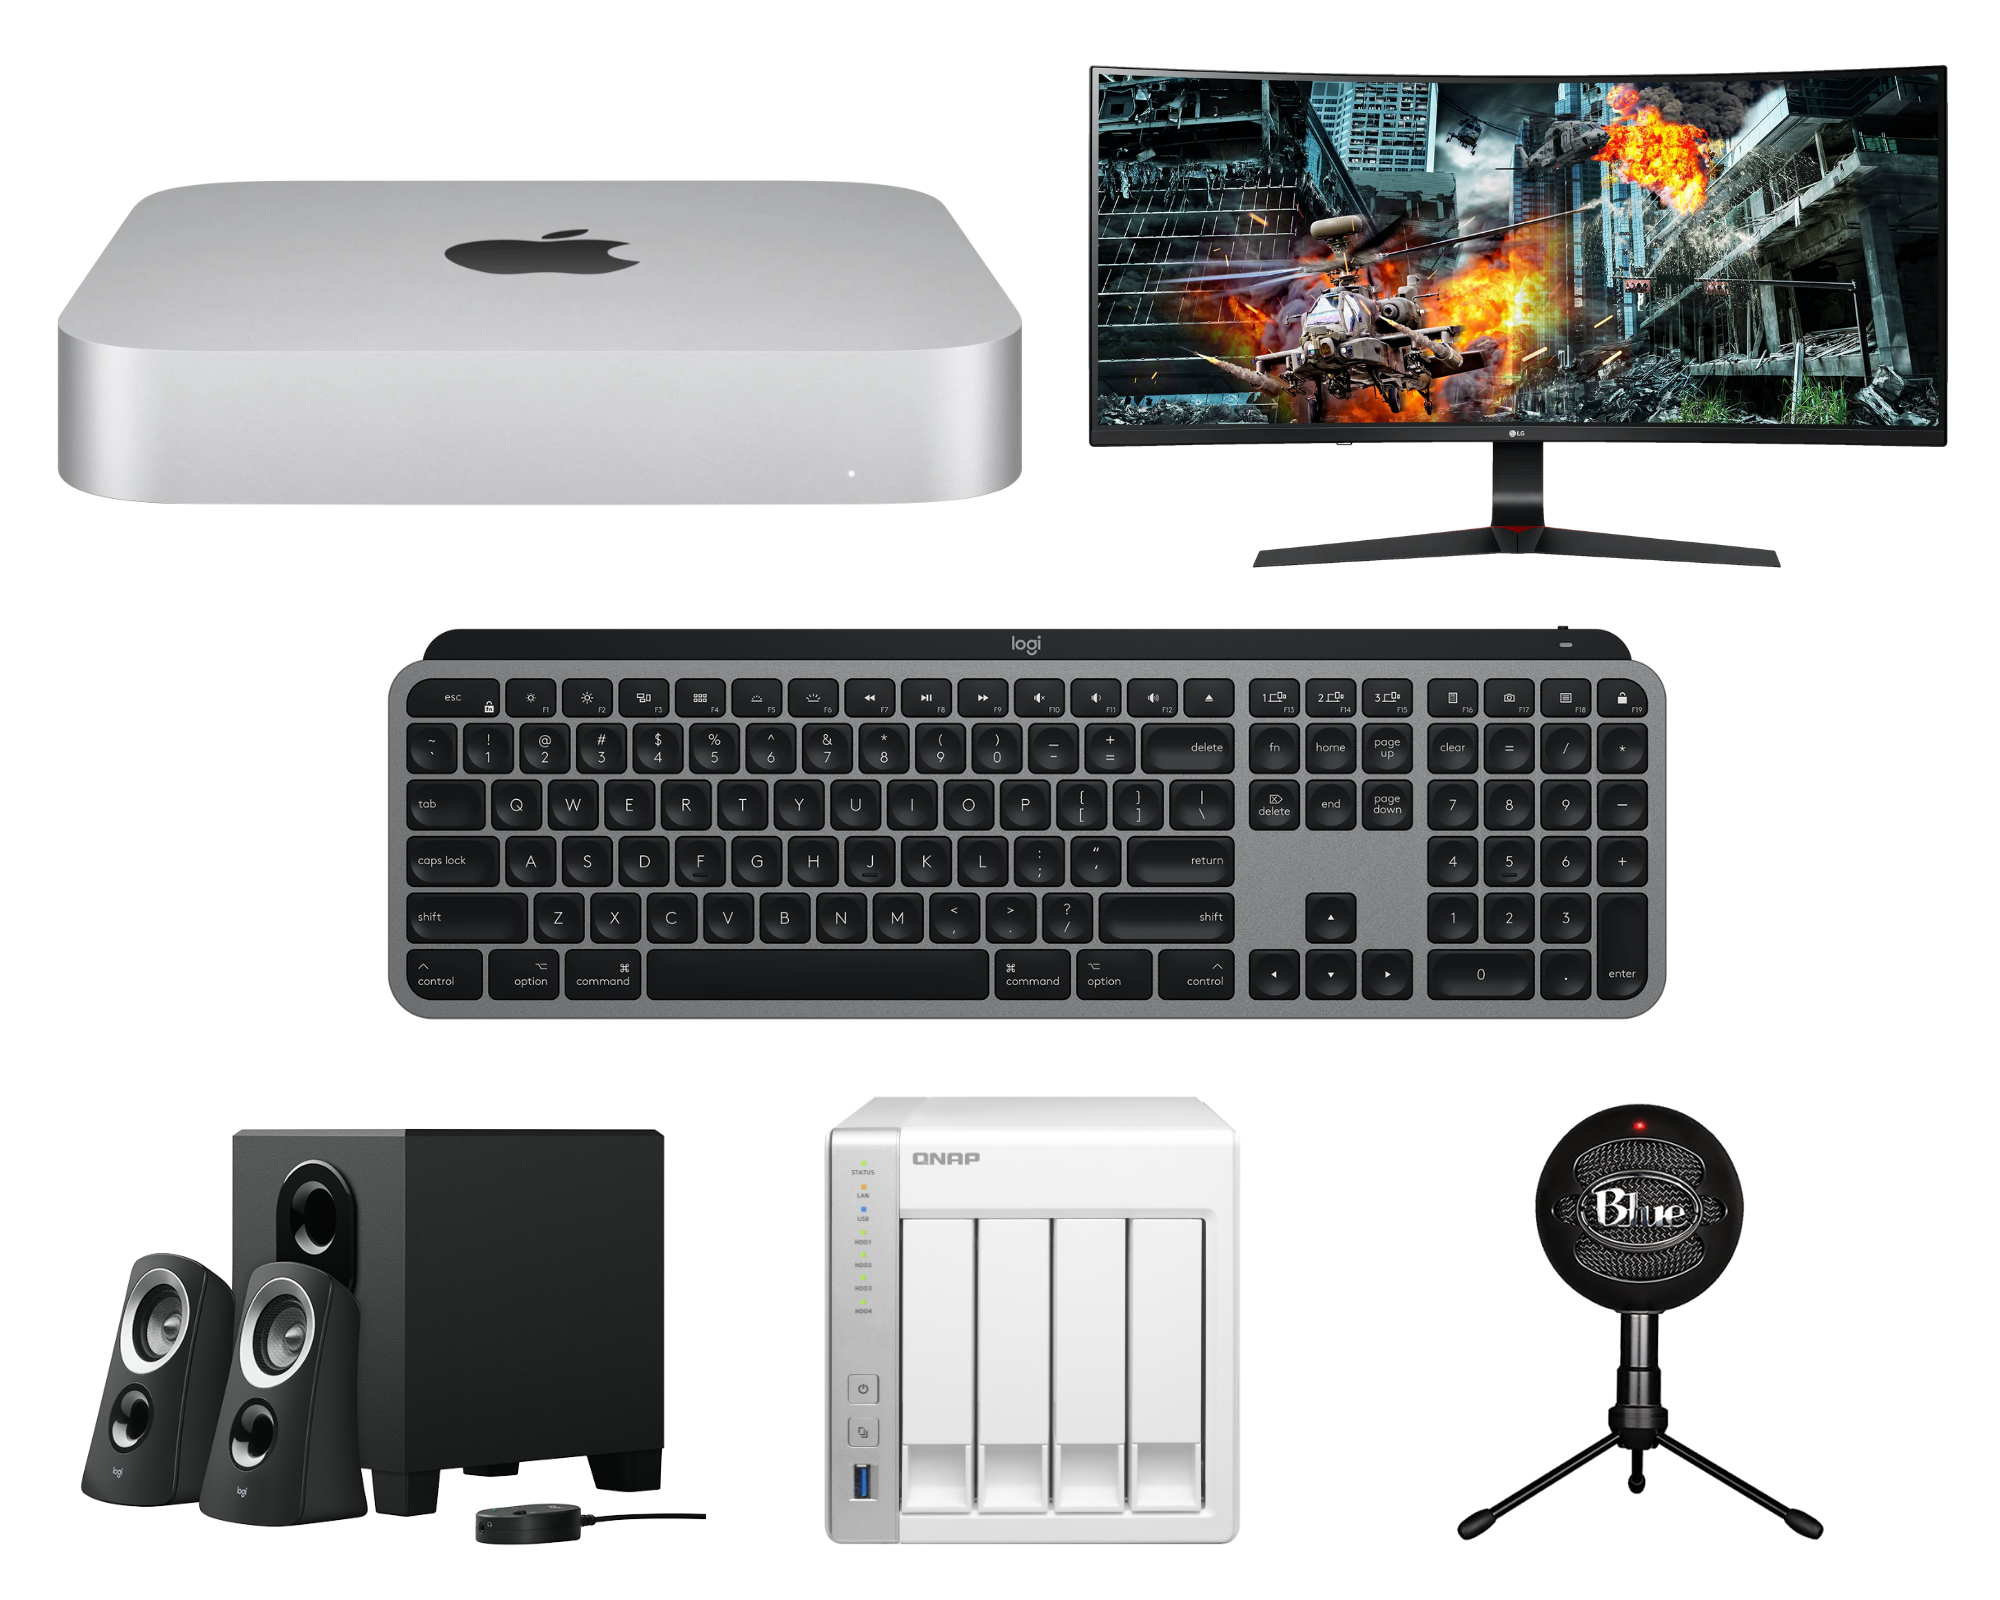
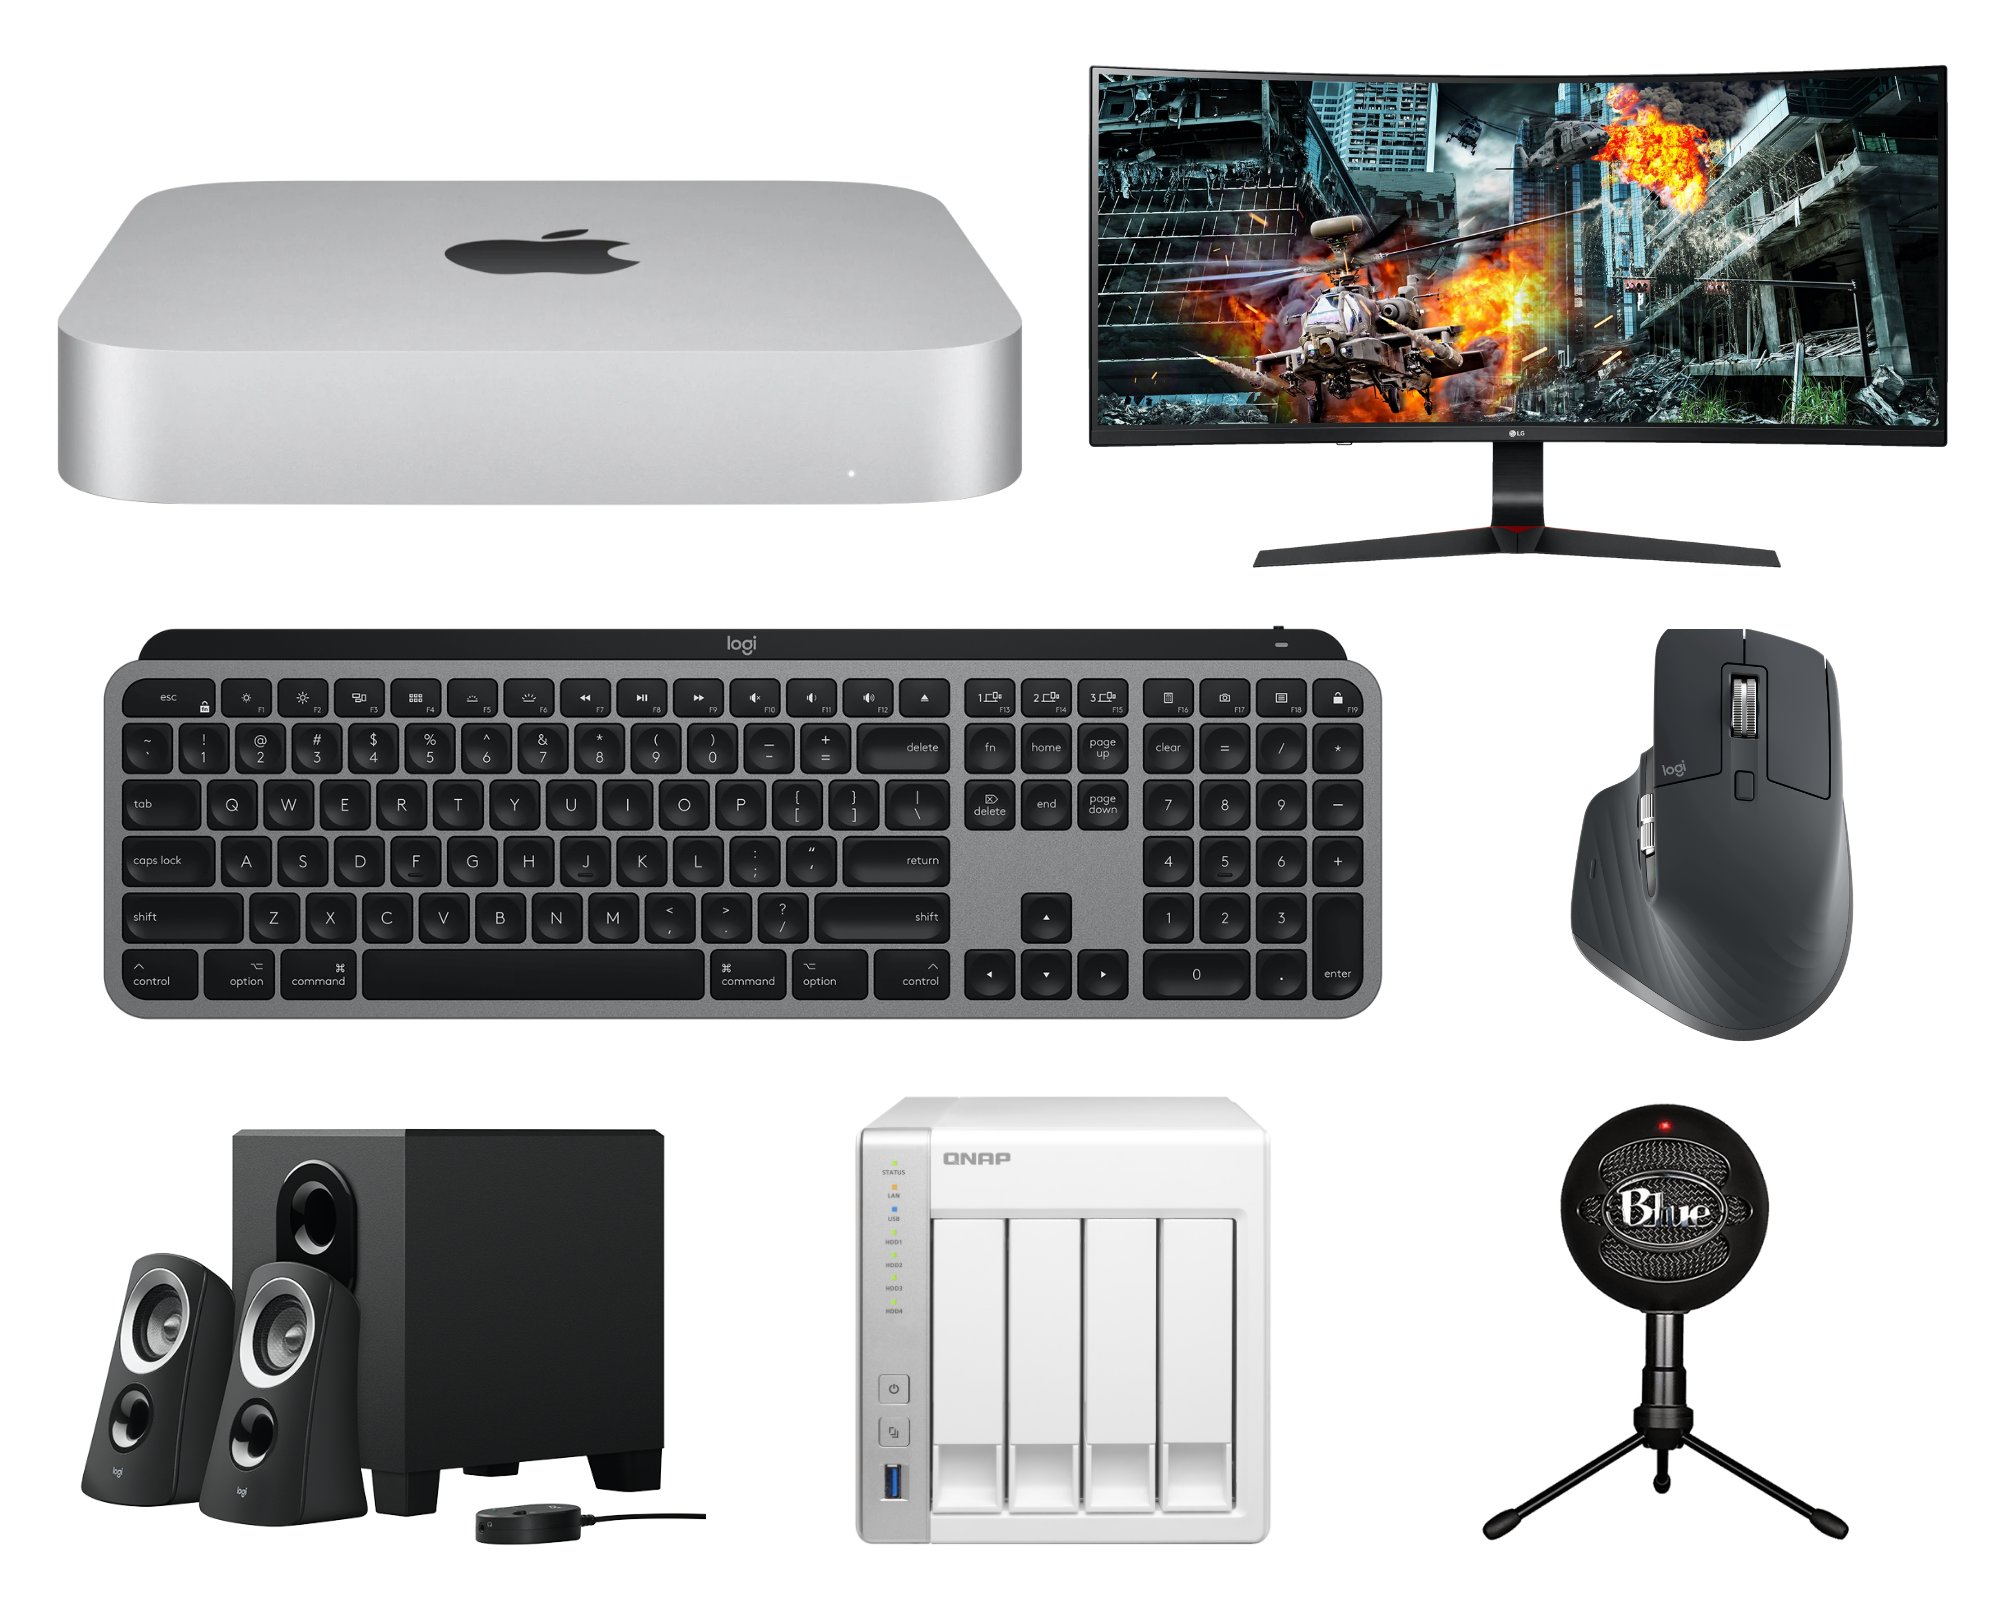
Add robots.txt, upgrade next-mdx-remote, update desk setup

diff --git a/next.config.js b/next.config.js
@@ -3,7 +3,80 @@ module.exports = {
         webpack5: true,
         strictPostcssConfiguration: true
     },
+    reactStrictMode: true,
+    experimental: {
+        turboMode: true
+    },
     images: {
         domains: ['http.cat']
+    },
+    async headers() {
+        return [
+            {
+                source: '/(.*)',
+                headers: securityHeaders
+            }
+        ]
+    },
+    webpack: (config, { dev, isServer}) => {
+        if (!dev && !isServer) {
+            Object.assign(config.resolve.alias, {
+                react: 'preact/compat',
+                'react-dom/test-utils': 'preact/test-utils',
+                'react-dom': 'preact/compat'
+            })
+        }
+
+        return config;
     }
 }
+
+const ContentSecurityPolicy = `
+  default-src 'self';
+  script-src 'self' 'unsafe-eval' 'unsafe-inline' *.youtube.com *.twitter.com cdn.usefathom.com;
+  child-src *.youtube.com *.google.com *.twitter.com;
+  style-src 'self' 'unsafe-inline' *.googleapis.com;
+  img-src * blob: data:;
+  media-src 'none';
+  connect-src *;
+  font-src 'self';
+`;
+
+const securityHeaders = [
+    // https://developer.mozilla.org/en-US/docs/Web/HTTP/CSP
+    {
+        key: 'Content-Security-Policy',
+        value: ContentSecurityPolicy.replace(/\n/g, '')
+    },
+    // https://developer.mozilla.org/en-US/docs/Web/HTTP/Headers/Referrer-Policy
+    {
+        key: 'Referrer-Policy',
+        value: 'origin-when-cross-origin'
+    },
+    // https://developer.mozilla.org/en-US/docs/Web/HTTP/Headers/X-Frame-Options
+    {
+        key: 'X-Frame-Options',
+        value: 'DENY'
+    },
+    // https://developer.mozilla.org/en-US/docs/Web/HTTP/Headers/X-Content-Type-Options
+    {
+        key: 'X-Content-Type-Options',
+        value: 'nosniff'
+    },
+    // https://developer.mozilla.org/en-US/docs/Web/HTTP/Headers/X-DNS-Prefetch-Control
+    {
+        key: 'X-DNS-Prefetch-Control',
+        value: 'on'
+    },
+    // https://developer.mozilla.org/en-US/docs/Web/HTTP/Headers/Strict-Transport-Security
+    {
+        key: 'Strict-Transport-Security',
+        value: 'max-age=31536000; includeSubDomains; preload'
+    },
+    // https://developer.mozilla.org/en-US/docs/Web/HTTP/Headers/Feature-Policy
+    // Opt-out of Google FLoC: https://amifloced.org/
+    {
+        key: 'Permissions-Policy',
+        value: 'camera=(), microphone=(), geolocation=(), interest-cohort=()'
+    }
+];

diff --git a/pages/blog/[slug].js b/pages/blog/[slug].js
@@ -1,33 +1,34 @@
-import React from 'react';
-import hydrate from 'next-mdx-remote/hydrate';
-
+import { MDXRemote } from 'next-mdx-remote';
 import { getFiles, getFileBySlug } from '../../lib/mdx';
 import MDXComponents from '../../components/MDXComponents';
 import BlogLayout from '../../layouts/blog';
 
 export default function Blog({ mdxSource, frontMatter }) {
-    const content = hydrate(mdxSource, {
-        components: MDXComponents
-    });
-
-    return <BlogLayout frontMatter={frontMatter}>{content}</BlogLayout>
+	return (
+		<BlogLayout frontMatter={frontMatter}>
+			<MDXRemote
+				{...mdxSource}
+				components={MDXComponents}
+			/>
+		</BlogLayout>
+	);
 }
 
 export async function getStaticPaths() {
-    const posts = await getFiles();
+	const posts = await getFiles();
 
-    return {
-        paths: posts.map(p => ({
-            params: {
-                slug: p.replace('.mdx', '')
-            }
-        })),
-        fallback: false
-    };
+	return {
+		paths: posts.map(p => ({
+			params: {
+				slug: p.replace('.mdx', '')
+			}
+		})),
+		fallback: false
+	};
 }
 
 export async function getStaticProps({ params }) {
-    const post = await getFileBySlug('blog', params.slug);
+	const post = await getFileBySlug('blog', params.slug);
 
-    return { props: post };
+	return { props: post };
 }

diff --git a/lib/mdx.js b/lib/mdx.js
@@ -1,10 +1,10 @@
 import { readdirSync, readFileSync } from 'fs';
 import { join } from 'path';
 import matter from 'gray-matter';
-import MDXComponents from '../components/MDXComponents';
 import readingTime from 'reading-time';
+
+import { serialize } from 'next-mdx-remote/serialize';
 import mdxPrism from 'mdx-prism';
-import renderToString from 'next-mdx-remote/render-to-string';
 
 const root = process.cwd();
 
@@ -27,8 +27,7 @@ export async function getFileBySlug(type, slug) {
         : readFileSync(join(root, 'data', `${type}.mdx`), 'utf8');
 
     const { data, content } = matter(source);
-    const mdxSource = await renderToString(content, {
-        components: MDXComponents,
+    const mdxSource = await serialize(content, {
         mdxOptions: {
             remarkPlugins: [
                 require('remark-slug'),

diff --git a/pages/uses.js b/pages/uses.js
@@ -1,14 +1,13 @@
 import { getFileBySlug } from '../lib/mdx';
 import UsesLayout from '../layouts/uses';
-import hydrate from 'next-mdx-remote/hydrate';
-import MDXComponents from '../components/MDXComponents';
+import { MDXRemote } from 'next-mdx-remote';
 
 export default function Uses({ mdxSource, frontMatter }) {
-	const content = hydrate(mdxSource, {
-		components: MDXComponents
-	})
-
-	return <UsesLayout frontMatter={frontMatter}>{content}</UsesLayout>
+	return (
+		<UsesLayout frontMatter={frontMatter}>
+			<MDXRemote {...mdxSource} />
+		</UsesLayout>
+	);
 }
 
 export async function getStaticProps() {

diff --git a/pages/_app.js b/pages/_app.js
@@ -1,12 +1,16 @@
 import React from 'react';
 import { ThemeProvider } from 'next-themes';
+import { MDXProvider } from '@mdx-js/react';
 
 import '../styles/globals.css';
+import MDXComponents from '../components/MDXComponents';
 
 export default function MyApp({ Component, pageProps }) {
 	return (
 		<ThemeProvider attribute="class" defaultTheme="system">
-			<Component {...pageProps} />
+			<MDXProvider components={MDXComponents}>
+				<Component {...pageProps} />
+			</MDXProvider>
 		</ThemeProvider>
 	)
 }
